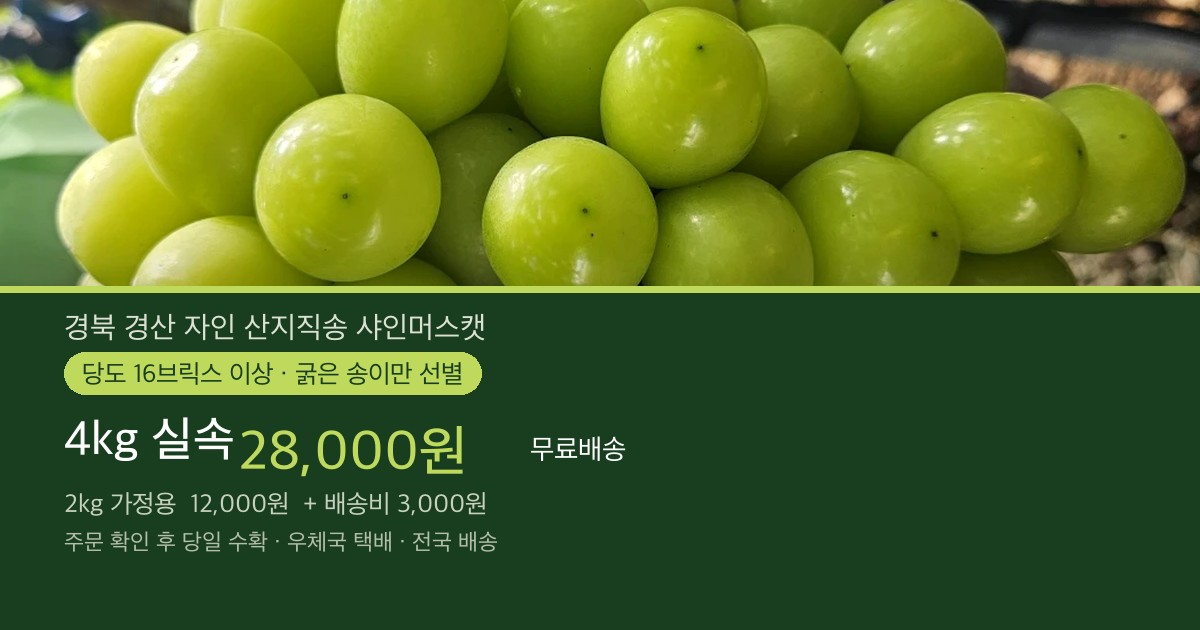
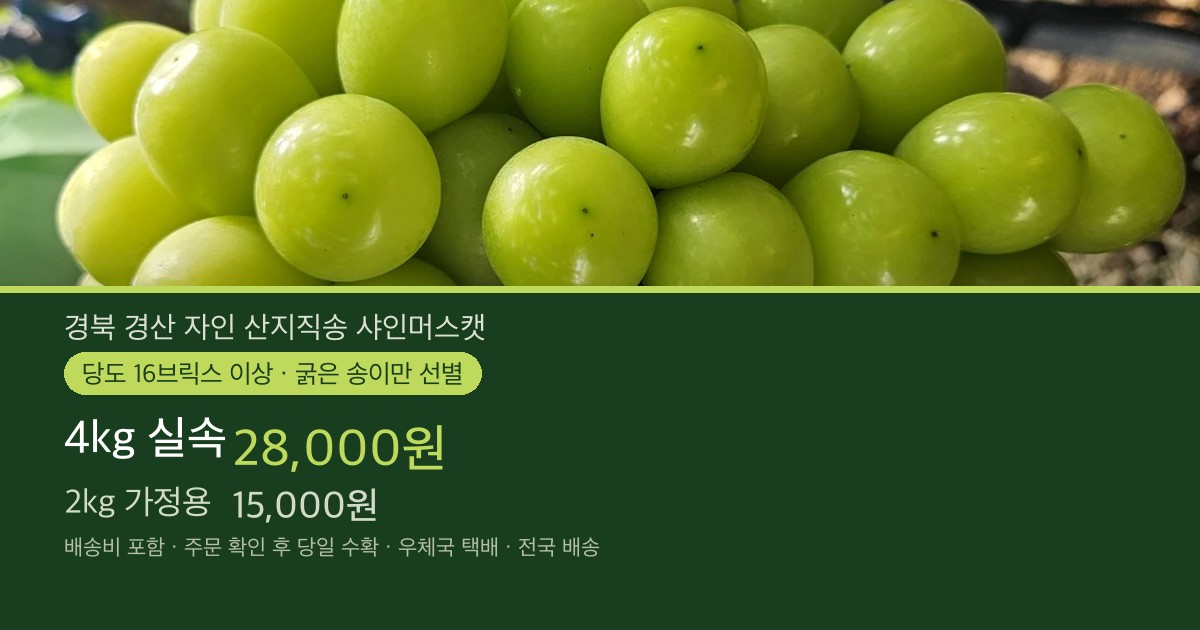
회사 페이지: 배송비 별도 → 가격에 포함 방식으로 전환
- 4kg 28,000원 / 2kg 15,000원, 둘 다 "배송비 포함" 표기
- 배송비 요금표·등급별 요금·escalating 택배비 로직(ship2) 전부 제거
- 계산기에서 택배비 행 삭제, 수량 × 가격만 표시
- 2kg 3박스 상한은 유지 (4박스+ 우회 차단)
- 주문 문자·배송 안내·FAQ·메타·og 이미지 문구 통일

Claude-Session: https://claude.ai/code/session_014jGTY4JMn6frD8gaTSoQPh

Changed region(s): [[0.0308, 0.6635, 0.4933, 0.9048], [0.4317, 0.6937, 0.5242, 0.754]]

diff --git a/company/index.html b/company/index.html
@@ -4,19 +4,19 @@
 <meta charset="utf-8">
 <meta name="viewport" content="width=device-width, initial-scale=1">
 <title>경산 자인 고당도 샤인머스캣</title>
-<meta name="description" content="경북 경산 자인 직송 샤인머스캣. 당도 16브릭스 이상, 굵은 송이만 선별. 4kg 실속 28,000원 무료배송 / 2kg 가정용 12,000원. 주문 확인 후 당일 수확해 우체국 택배 발송.">
+<meta name="description" content="경북 경산 자인 산지직송 샤인머스캣. 당도 16브릭스 이상, 굵은 송이만 선별. 4kg 실속 28,000원 / 2kg 가정용 15,000원 (배송비 포함). 주문 확인 후 당일 수확해 우체국 택배 발송.">
 <meta property="og:type" content="website">
 <meta property="og:url" content="https://kkseon45-web.github.io/shine-muscat-order/company/">
 <meta property="og:site_name" content="경산 자인 고당도 샤인머스캣">
 <meta property="og:title" content="경산 자인 고당도 샤인머스캣">
-<meta property="og:description" content="당도 16브릭스 이상 · 4kg 실속 28,000원 무료배송 · 2kg 가정용 12,000원 · 주문 확인 후 당일 수확">
+<meta property="og:description" content="당도 16브릭스 이상 · 4kg 28,000원 / 2kg 15,000원 (배송비 포함) · 주문 확인 후 당일 수확">
 <meta property="og:image" content="https://kkseon45-web.github.io/shine-muscat-order/img/og-company.jpg">
 <meta property="og:image:width" content="1200">
 <meta property="og:image:height" content="630">
 <meta property="og:image:alt" content="경산 자인 고당도 샤인머스캣 2kg 12,000원">
 <meta name="twitter:card" content="summary_large_image">
 <meta name="twitter:title" content="경산 자인 고당도 샤인머스캣">
-<meta name="twitter:description" content="당도 16브릭스 이상 · 4kg 실속 28,000원 무료배송 · 2kg 가정용 12,000원 · 주문 확인 후 당일 수확">
+<meta name="twitter:description" content="당도 16브릭스 이상 · 4kg 28,000원 / 2kg 15,000원 (배송비 포함) · 주문 확인 후 당일 수확">
 <meta name="twitter:image" content="https://kkseon45-web.github.io/shine-muscat-order/img/og-company.jpg">
 <link rel="preconnect" href="https://fonts.googleapis.com">
 <link rel="preconnect" href="https://fonts.gstatic.com" crossorigin>
@@ -291,11 +291,11 @@
       <div class="prod reco">
         <span class="prod-tag">추천</span>
         <div class="prod-name">4kg 실속 <small>5~6수</small></div>
-        <div class="prod-price"><span class="amount num">28,000<small>원</small></span><span class="free">무료배송</span></div>
+        <div class="prod-price"><span class="amount num">28,000<small>원</small></span><span class="free">배송비 포함</span></div>
       </div>
       <div class="prod">
-        <div class="prod-name">2kg 가정용 <small>3수</small></div>
-        <div class="prod-price"><span class="amount num">12,000<small>원</small></span><span class="plus-ship">＋ 배송비 3,000원</span></div>
+        <div class="prod-name">2kg 가정용 <small>3수 · 최대 3박스</small></div>
+        <div class="prod-price"><span class="amount num">15,000<small>원</small></span><span class="free">배송비 포함</span></div>
       </div>
     </div>
     <p class="spec-tag">당도 16브릭스 이상</p>
@@ -303,12 +303,7 @@
 
     <div class="ship">
       <h3 class="num">배송 안내 <span>우체국 택배</span></h3>
-      <div class="ship-grid num">
-        <div><b>무료</b><span>4kg 박스</span></div>
-        <div><b>3,000원</b><span>2kg 1박스</span></div>
-        <div><b>5,000원~</b><span>2kg 2~3박스</span></div>
-      </div>
-      <p>※ <strong>4kg 박스는 배송비가 포함</strong>되어 있어 무료입니다.<br>※ <strong>4kg 한 박스면 배송비 없이 5~6수</strong>를 받으실 수 있어요.<br>※ 2kg는 3박스까지, 그 이상은 <strong>4kg 박스가 더 저렴하고 튼튼</strong>합니다.<br>※ 배송지가 다르면 택배비가 각각 발생합니다. <strong>전국 배송 가능</strong>합니다.</p>
+      <p>※ 모든 상품은 <strong>배송비가 가격에 포함</strong>되어 있습니다. 표시된 금액만 입금하시면 됩니다.<br>※ 2kg는 3박스까지 주문할 수 있어요. 더 필요하시면 4kg를 이용해 주세요.<br>※ 여러 곳으로 보내실 땐 배송지마다 따로 주문해 주세요. <strong>전국 배송 가능</strong>합니다.</p>
     </div>
   </section>
 
@@ -330,7 +325,7 @@
     <p class="sec-sub">4kg·2kg 수량을 고르면 입금하실 금액을 계산해 드려요.</p>
     <div class="calc">
       <div class="qty">
-        <div class="qty-label">4kg 실속<small>5~6수 · 28,000원 · 무료배송</small></div>
+        <div class="qty-label">4kg 실속<small>5~6수 · 28,000원 · 배송비 포함</small></div>
         <div class="stepper" role="group" aria-label="4kg 수량 선택">
           <button type="button" id="minus4" aria-label="4kg 수량 줄이기">−</button>
           <output id="qty4" aria-live="polite">1</output>
@@ -338,7 +333,7 @@
         </div>
       </div>
       <div class="qty">
-        <div class="qty-label">2kg 가정용<small>3수 · 12,000원 · 최대 3박스</small></div>
+        <div class="qty-label">2kg 가정용<small>3수 · 15,000원 · 최대 3박스</small></div>
         <div class="stepper" role="group" aria-label="2kg 수량 선택">
           <button type="button" id="minus2" aria-label="2kg 수량 줄이기">−</button>
           <output id="qty2" aria-live="polite">0</output>
@@ -347,11 +342,10 @@
       </div>
       <div class="sum num">
         <div class="row" id="row4"><span>4kg 28,000원 × <span id="c4">1</span></span><span id="g4">28,000원</span></div>
-        <div class="row" id="row2" hidden><span>2kg 12,000원 × <span id="c2">0</span></span><span id="g2">0원</span></div>
-        <div class="row" id="rowShip" hidden><span>택배비 (2kg)</span><span id="shipFee">0원</span></div>
+        <div class="row" id="row2" hidden><span>2kg 15,000원 × <span id="c2">0</span></span><span id="g2">0원</span></div>
         <div class="total"><span>입금하실 금액</span><b id="total">28,000<small>원</small></b></div>
       </div>
-      <p class="hint" id="calcHint">4kg 한 박스는 배송비가 포함되어 있어요.</p>
+      <p class="hint" id="calcHint">표시된 금액이 배송비까지 포함한 최종 금액이에요.</p>
     </div>
   </section>
 
@@ -474,11 +468,11 @@
     </details>
     <details>
       <summary>여러 곳으로 나눠 보낼 수 있나요?</summary>
-      <p>네, 가능해요. 다만 배송지가 다르면 택배비가 각각 발생합니다. 주소를 문자에 모두 적어 주시면 택배비를 안내드릴게요.</p>
+      <p>네, 가능해요. 다만 배송지마다 따로 주문해 주셔야 합니다. 각 주소로 가는 상품값(배송비 포함)이 개별로 청구됩니다.</p>
     </details>
     <details>
       <summary>4kg와 2kg 중 뭘 고를까요?</summary>
-      <p>값은 2kg 두 박스와 비슷하지만, 4kg는 한 박스로 받아 간편하고 송이가 굵어 선물용으로 좋습니다. 맛보기나 1~2인 가구는 2kg가 적당합니다. 2kg는 최대 3박스까지 주문 가능하고, 그 이상은 4kg 박스로 보내드립니다.</p>
+      <p>가족이 함께 드시거나 선물용이면 4kg가 알뜰합니다. 2kg 두 박스(30,000원)보다 4kg 한 박스(28,000원)가 더 싸고 포장도 간편합니다. 맛보기나 1~2인 가구는 2kg가 좋습니다. 2kg는 최대 3박스까지 주문할 수 있어요.</p>
     </details>
     <details>
       <summary>한 박스에 몇 송이 들어가나요?</summary>
@@ -523,16 +517,10 @@
   var PHONE   = '010-4946-3194';
   var SELLER  = '이수연';
   var BANK    = '우리은행 1002-763-581070 (예금주 이수연)';
-  var P4 = 28000;   // 4kg 실속 (무료배송)
-  var P2 = 12000;   // 2kg 가정용
+  var P4 = 28000;   // 4kg 실속 (배송비 포함)
+  var P2 = 15000;   // 2kg 가정용 (배송비 포함)
   var MAX_QTY = 10;
   var MAX_2 = 3;    // 2kg는 3박스까지 (그 이상은 4kg로 유도)
-  function ship2(n){            // 2kg 박스 택배비 (실비 기준): 1박스 3,000 / 2박스 5,000 / 3박스 8,000
-    if(n <= 0) return 0;
-    if(n === 1) return 3000;
-    if(n === 2) return 5000;
-    return 8000;                // 3박스
-  }
   // ========================================
 
   var q4 = 1, q2 = 0;
@@ -540,15 +528,13 @@
   var won = function(n){ return n.toLocaleString('ko-KR') + '원'; };
 
   function calc(){
-    var g4 = P4 * q4, g2 = P2 * q2, fee = ship2(q2), total = g4 + g2 + fee;
+    var g4 = P4 * q4, g2 = P2 * q2, total = g4 + g2;
     $('qty4').textContent = q4;
     $('qty2').textContent = q2;
     $('c4').textContent = q4; $('g4').textContent = won(g4);
     $('c2').textContent = q2; $('g2').textContent = won(g2);
-    $('shipFee').textContent = won(fee);
-    $('row4').hidden   = q4 <= 0;
-    $('row2').hidden   = q2 <= 0;
-    $('rowShip').hidden = q2 <= 0;
+    $('row4').hidden = q4 <= 0;
+    $('row2').hidden = q2 <= 0;
     $('total').innerHTML = total.toLocaleString('ko-KR') + '<small>원</small>';
     var parts = [];
     if(q4 > 0) parts.push('4kg ' + q4 + '박스');
@@ -558,24 +544,21 @@
     $('minus4').disabled = q4 <= 0; $('plus4').disabled = q4 >= MAX_QTY;
     $('minus2').disabled = q2 <= 0; $('plus2').disabled = q2 >= MAX_2;
     $('calcHint').textContent = q2 >= MAX_2
-      ? '2kg는 3박스까지예요. 더 필요하시면 4kg 박스가 훨씬 저렴합니다.'
-      : (q2 >= 2
-        ? '2kg 2박스와 4kg 1박스는 값이 비슷해요. 4kg는 한 박스로 시원하게 보내드려요.'
-        : '4kg 한 박스는 배송비가 포함되어 있어요.');
+      ? '2kg는 3박스까지예요. 더 필요하시면 4kg를 이용해 주세요.'
+      : '표시된 금액이 배송비까지 포함한 최종 금액이에요.';
     renderPreview();
   }
 
   function val(id){ return ($(id).value || '').trim(); }
 
   function message(){
-    var g4 = P4 * q4, g2 = P2 * q2, fee = ship2(q2), total = g4 + g2 + fee;
+    var g4 = P4 * q4, g2 = P2 * q2, total = g4 + g2;
     var items = [];
     if(q4 > 0) items.push('4kg 실속 ' + q4 + '박스');
     if(q2 > 0) items.push('2kg 가정용 ' + q2 + '박스');
     var bd = [];
     if(q4 > 0) bd.push('4kg ' + won(g4));
     if(q2 > 0) bd.push('2kg ' + won(g2));
-    if(fee > 0) bd.push('택배 ' + won(fee));
     var lines = [
       '[샤인머스캣 주문]',
       '받는 분: ' + (val('name') || '(성함)'),
@@ -583,7 +566,7 @@
       '연락처: ' + (val('phone') || '(연락처)'),
       '주문: ' + (items.join(' + ') || '(수량)'),
       '입금자명: ' + (val('payer') || '(입금자명)'),
-      '입금 예정 금액: ' + won(total) + ' (' + bd.join(' + ') + ')'
+      '입금 예정 금액: ' + won(total) + (bd.length > 1 ? ' (' + bd.join(' + ') + ')' : '') + ' (배송비 포함)'
     ];
     if(val('memo')) lines.push('요청사항: ' + val('memo'));
     return lines.join('\n');
